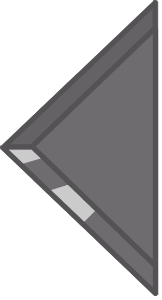
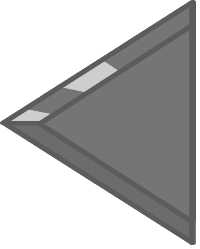
Updated Android buttons.

diff --git a/core/src/com/yellowbytestudios/spacedoctor/screens/GameScreen.java b/core/src/com/yellowbytestudios/spacedoctor/screens/GameScreen.java
@@ -1,6 +1,7 @@
 package com.yellowbytestudios.spacedoctor.screens;
 
 import com.badlogic.gdx.Gdx;
+import com.badlogic.gdx.audio.Sound;
 import com.badlogic.gdx.graphics.GL20;
 import com.badlogic.gdx.graphics.Texture;
 import com.badlogic.gdx.graphics.g2d.Sprite;
@@ -15,11 +16,13 @@ import com.badlogic.gdx.physics.box2d.Fixture;
 import com.badlogic.gdx.physics.box2d.World;
 import com.badlogic.gdx.utils.Array;
 import com.badlogic.gdx.utils.TimeUtils;
+import com.yellowbytestudios.spacedoctor.Assets;
 import com.yellowbytestudios.spacedoctor.BodyFactory;
 import com.yellowbytestudios.spacedoctor.Box2DContactListeners;
 import com.yellowbytestudios.spacedoctor.GUIManager;
 import com.yellowbytestudios.spacedoctor.MainGame;
 import com.yellowbytestudios.spacedoctor.Platform;
+import com.yellowbytestudios.spacedoctor.SoundManager;
 import com.yellowbytestudios.spacedoctor.SpacemanPlayer;
 import com.yellowbytestudios.spacedoctor.TileManager;
 import com.yellowbytestudios.spacedoctor.cameras.BoundedCamera;
@@ -68,10 +71,6 @@ public class GameScreen implements Screen {
     public static LightManager lightManager;
     private GUIManager gui;
 
-    //Fade in/out between maps.
-    private TweenManager tweenManager;
-    private long startTime, delta;
-    private Sprite fader;
     boolean atDoor = false;
     public static int levelNo = 1;
 
@@ -87,29 +86,33 @@ public class GameScreen implements Screen {
     public void create() {
 
         b2dCam = new BoundedCamera();
+        b2dCam.setToOrtho(false, MainGame.WIDTH / PPM, MainGame.HEIGHT / PPM);
+
         b2dr = new Box2DDebugRenderer();
         particleManager = new ParticleManager();
         //lightManager = new LightManager(world, player, cam);
 
-        Tween.registerAccessor(Sprite.class, new SpriteAccessor());
-        tweenManager = new TweenManager();
-        fader = new Sprite(new Texture(Gdx.files.internal("black.png")));
-        fader.setScale(1920, 1080);
+        cam = new BoundedCamera();
+        cam.setToOrtho(false, MainGame.WIDTH, MainGame.HEIGHT);
 
         if (MainGame.DEVICE.equals("ANDROID")) {
             androidController = new AndroidController();
         }
 
+        //Set tile map using Tiled map path.
+        tileMap = new TmxMapLoader().load("spaceship" + levelNo + ".tmx");
 
-        setupMap("spaceship" + levelNo);
+        //Setup map renderer.
+        tmr = new OrthogonalTiledMapRenderer(tileMap);
+
+
+        setupMap();
     }
 
-    private void setupMap(String mapName) {
+    private void setupMap() {
         System.out.println("Setup begins");
 
         //Setup camera.
-        cam = new BoundedCamera();
-        cam.setToOrtho(false, MainGame.WIDTH, MainGame.HEIGHT);
         world = new World(new Vector2(0, -9.8f), true);
 
         //Setup contact listeners.
@@ -117,13 +120,6 @@ public class GameScreen implements Screen {
         world.setContactListener(contactListener);
 
 
-        b2dCam.setToOrtho(false, MainGame.WIDTH / PPM, MainGame.HEIGHT / PPM);
-
-        //Set tile map using Tiled map path.
-        tileMap = new TmxMapLoader().load(mapName + ".tmx");
-
-        //Setup map renderer.
-        tmr = new OrthogonalTiledMapRenderer(tileMap);
 
         tileManager = new TileManager();
         tileManager.createWalls(world, tileMap);
@@ -152,12 +148,6 @@ public class GameScreen implements Screen {
         door = BodyFactory.createDoors(world, tileMap);
 
         gui = new GUIManager(player);
-
-        fader.setAlpha(1f);
-        Tween.to(fader, SpriteAccessor.OPACITY, 30f)
-                .target(0f).ease(TweenEquations.easeNone)
-                .start(tweenManager);
-
         atDoor = false;
     }
 
@@ -181,8 +171,11 @@ public class GameScreen implements Screen {
     public void update(float step) {
         world.step(step, 8, 3);
 
-        delta = (TimeUtils.millis() - startTime + 1000) / 1000;
-        tweenManager.update(delta);
+        if(player.isDead() || gui.getTimeElapsed() < 0) {
+            SoundManager.play(Assets.manager.get(Assets.DEATH_SOUND, Sound.class));
+            setupMap();
+        }
+
 
         if (MainGame.DEVICE.equals("ANDROID")) {
             androidController.update();
@@ -232,15 +225,18 @@ public class GameScreen implements Screen {
             player.setShooting(false);
         }
 
-        if (!atDoor) {
 
-            if (contactListener.isAtDoor()) {
+        if (contactListener.isAtDoor()) {
+            SoundManager.play(Assets.manager.get(Assets.FINISHED_SOUND, Sound.class));
 
-                fadeOut();
-
-                atDoor = true;
+            if (MainGame.UNLOCKED_LEVEL != 10) {
+                MainGame.UNLOCKED_LEVEL += 1;
+                ScreenManager.setScreen(new LevelSelectScreen());
+            } else {
+                ScreenManager.setScreen(new ResultsScreen());
             }
         }
+
 
         for (Platform p : platforms) {
             p.update();
@@ -249,8 +245,6 @@ public class GameScreen implements Screen {
         for (Enemy e : enemies) {
             e.update(player);
         }
-
-        //lightManager.update();
     }
 
     private void updateCameras() {
@@ -307,7 +301,6 @@ public class GameScreen implements Screen {
         }
 
         particleManager.render(sb);
-        fader.draw(sb);
 
         sb.end();
 
@@ -319,30 +312,8 @@ public class GameScreen implements Screen {
             androidController.render(sb);
         }
 
-
-        //lightManager.render();
         //Render Box2D world.
         //b2dr.render(world, b2dCam.combined);
-    }
-
-    private void fadeOut() {
-        TweenCallback myCallBack = new TweenCallback() {
-            @Override
-            public void onEvent(int type, BaseTween<?> source) {
-                Door d = (Door) contactListener.getDoor().getUserData();
-                setupMap(d.getDestination());
-            }
-        };
-
-
-        fader.setAlpha(0f);
-        Tween.to(fader, SpriteAccessor.OPACITY, 30f)
-                .target(1f).ease(TweenEquations.easeNone)
-                .setCallback(myCallBack)
-                .setCallbackTriggers(TweenCallback.END)
-                .start(tweenManager);
-
-        startTime = TimeUtils.millis();
     }
 
     @Override

diff --git a/core/src/com/yellowbytestudios/spacedoctor/controllers/AndroidController.java b/core/src/com/yellowbytestudios/spacedoctor/controllers/AndroidController.java
@@ -22,10 +22,10 @@ public class AndroidController implements BasicController {
         camera.resize();
 
 
-        left = new Button(new Texture(Gdx.files.internal("left.png")), new Vector2(30, 30));
-        right = new Button(new Texture(Gdx.files.internal("right.png")), new Vector2(230, 30));
-        up = new Button(new Texture(Gdx.files.internal("up.png")), new Vector2(MainGame.WIDTH - 330, 30));
-        shoot = new Button(new Texture(Gdx.files.internal("shoot.png")), new Vector2(MainGame.WIDTH - 330 - 280, 30));
+        left = new Button(new Texture(Gdx.files.internal("left.png")), new Texture(Gdx.files.internal("left_pressed.png")), new Vector2(30, 30));
+        right = new Button(new Texture(Gdx.files.internal("right.png")), new Texture(Gdx.files.internal("right_pressed.png")), new Vector2(250, 30));
+        up = new Button(new Texture(Gdx.files.internal("up.png")), new Texture(Gdx.files.internal("up_pressed.png")), new Vector2(MainGame.WIDTH - 330, 30));
+        shoot = new Button(new Texture(Gdx.files.internal("shoot.png")), new Texture(Gdx.files.internal("shoot_pressed.png")), new Vector2(MainGame.WIDTH - 330 - 280, 30));
 
         touch1 = new Vector2();
         touch2 = new Vector2();
@@ -61,17 +61,35 @@ public class AndroidController implements BasicController {
 
     @Override
     public boolean leftPressed() {
-        return Gdx.input.isTouched() && (left.checkTouch(touch1) || left.checkTouch(touch2));
+        if(Gdx.input.isTouched() && (left.checkTouch(touch1) || left.checkTouch(touch2))) {
+            left.setPressed(true);
+            return true;
+        } else {
+            left.setPressed(false);
+        }
+        return false;
     }
 
     @Override
     public boolean rightPressed() {
-        return Gdx.input.isTouched() && (right.checkTouch(touch1) || right.checkTouch(touch2));
+        if(Gdx.input.isTouched() && (right.checkTouch(touch1) || right.checkTouch(touch2))) {
+            right.setPressed(true);
+            return true;
+        } else {
+            right.setPressed(false);
+        }
+        return false;
     }
 
     @Override
     public boolean upPressed() {
-        return Gdx.input.isTouched() && (up.checkTouch(touch1) || up.checkTouch(touch2));
+        if(Gdx.input.isTouched() && (up.checkTouch(touch1) || up.checkTouch(touch2))) {
+            up.setPressed(true);
+            return true;
+        } else {
+            up.setPressed(false);
+        }
+        return false;
     }
 
 
@@ -82,7 +100,13 @@ public class AndroidController implements BasicController {
 
     @Override
     public boolean shootPressed() {
-        return Gdx.input.justTouched() && (shoot.checkTouch(touch1) || shoot.checkTouch(touch2));
+        if(Gdx.input.justTouched() && (shoot.checkTouch(touch1) || shoot.checkTouch(touch2))) {
+            shoot.setPressed(true);
+            return true;
+        } else {
+            shoot.setPressed(false);
+        }
+        return false;
     }
 
 

diff --git a/core/src/com/yellowbytestudios/spacedoctor/Box2DContactListeners.java b/core/src/com/yellowbytestudios/spacedoctor/Box2DContactListeners.java
@@ -70,12 +70,10 @@ public class Box2DContactListeners implements ContactListener {
         if(fa.getUserData() != null && fa.getUserData().equals("door")) {
             door = fa.getBody();
             atDoor = true;
-            endLevel();
         }
         if(fb.getUserData() != null && fb.getUserData().equals("door")) {
             door = fb.getBody();
             atDoor = true;
-            endLevel();
         }
 
         if(fa.getUserData() != null && fa.getUserData().equals("pickup")) {
@@ -167,17 +165,6 @@ public class Box2DContactListeners implements ContactListener {
             SoundManager.play(Assets.manager.get(Assets.FOOTSTEP2_SOUND, Sound.class));
         } else {
             SoundManager.play(Assets.manager.get(Assets.FOOTSTEP3_SOUND, Sound.class));
-        }
-    }
-
-    private void endLevel() {
-        SoundManager.play(Assets.manager.get(Assets.FINISHED_SOUND, Sound.class));
-
-        if(MainGame.UNLOCKED_LEVEL != 10) {
-            MainGame.UNLOCKED_LEVEL+=1;
-            ScreenManager.setScreen(new LevelSelectScreen());
-        } else {
-            ScreenManager.setScreen(new ResultsScreen());
         }
     }
 

diff --git a/core/src/com/yellowbytestudios/spacedoctor/Button.java b/core/src/com/yellowbytestudios/spacedoctor/Button.java
@@ -10,17 +10,23 @@ import com.badlogic.gdx.math.Vector2;
  */
 public class Button {
 
-    protected Texture texture;
+    protected Texture texture, texture_pressed;
     protected Vector2 pos;
     private boolean selected, pressed = false;
 
-    public Button(Texture texture, Vector2 pos) {
+    public Button(Texture texture, Texture texture_pressed, Vector2 pos) {
         this.texture = texture;
+        this.texture_pressed = texture_pressed;
         this.pos = pos;
     }
 
     public void render(SpriteBatch sb) {
-        sb.draw(texture, pos.x, pos.y);
+        if(pressed) {
+            sb.draw(texture_pressed, pos.x, pos.y);
+        } else {
+            sb.draw(texture, pos.x, pos.y);
+        }
+
     }
 
     public Rectangle getBounds() {

diff --git a/core/src/com/yellowbytestudios/spacedoctor/GUIManager.java b/core/src/com/yellowbytestudios/spacedoctor/GUIManager.java
@@ -42,15 +42,7 @@ public class GUIManager {
     }
 
     public void update() {
-
-
         timeElapsed = duration - ((System.nanoTime() - startTurnTime) / 1000000);
-
-        // Check if time is up.
-        if (timeElapsed < 0 || player.isDead()) {
-            SoundManager.play(Assets.manager.get(Assets.DEATH_SOUND, Sound.class));
-            ScreenManager.setScreen(new GameScreen(GameScreen.levelNo));
-        }
     }
 
     public void render(SpriteBatch sb) {
@@ -84,5 +76,9 @@ public class GUIManager {
         Fonts.timerFont.setColor(Color.WHITE);
 
         sb.end();
+    }
+
+    public long getTimeElapsed() {
+        return timeElapsed;
     }
 }

diff --git a/core/src/com/yellowbytestudios/spacedoctor/screens/LevelSelectScreen.java b/core/src/com/yellowbytestudios/spacedoctor/screens/LevelSelectScreen.java
@@ -68,7 +68,7 @@ public class LevelSelectScreen implements Screen {
         private Texture border;
 
         public LevelButton(Vector2 pos, int levelNum) {
-            super(new Texture(Gdx.files.internal("levelLocked.png")), pos);
+            super(new Texture(Gdx.files.internal("levelLocked.png")), new Texture(Gdx.files.internal("levelLocked.png")), pos);
             if (MainGame.UNLOCKED_LEVEL > levelNum) {
                 texture = new Texture(Gdx.files.internal("levelComplete.png"));
             } else if (MainGame.UNLOCKED_LEVEL == levelNum) {

diff --git a/core/src/com/yellowbytestudios/spacedoctor/SpacemanPlayer.java b/core/src/com/yellowbytestudios/spacedoctor/SpacemanPlayer.java
@@ -73,9 +73,13 @@ public class SpacemanPlayer {
 
         if (controller.leftPressed()) { // LEFT | RIGHT MOVEMENT
             moveLeft();
-        } else if (controller.rightPressed()) {
+        }
+
+        if (controller.rightPressed()) {
             moveRight();
-        } else {
+        }
+
+        if(!controller.rightPressed() && !controller.leftPressed()){
             idle();
         }
 

diff --git a/core/src/com/yellowbytestudios/spacedoctor/objects/Enemy.java b/core/src/com/yellowbytestudios/spacedoctor/objects/Enemy.java
@@ -25,6 +25,9 @@ public class Enemy extends Box2DSprite {
     public Enemy(Body body) {
         super(body);
         spriter = MainGame.spriterManager.initDemon();
+
+        assignVariables();
+        spriter.setPosition((int) (posX * Box2DVars.PPM), (int) (posY * Box2DVars.PPM) - 75);
     }
 
     public void render(SpriteBatch sb) {
